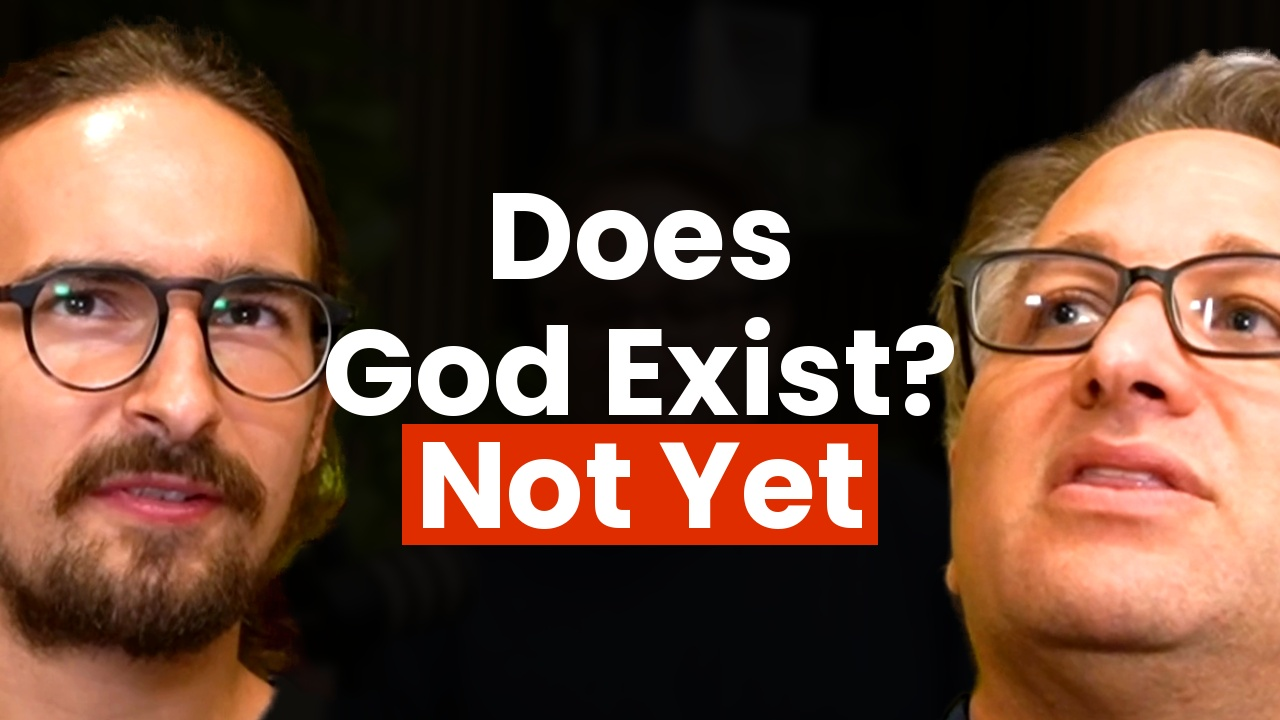
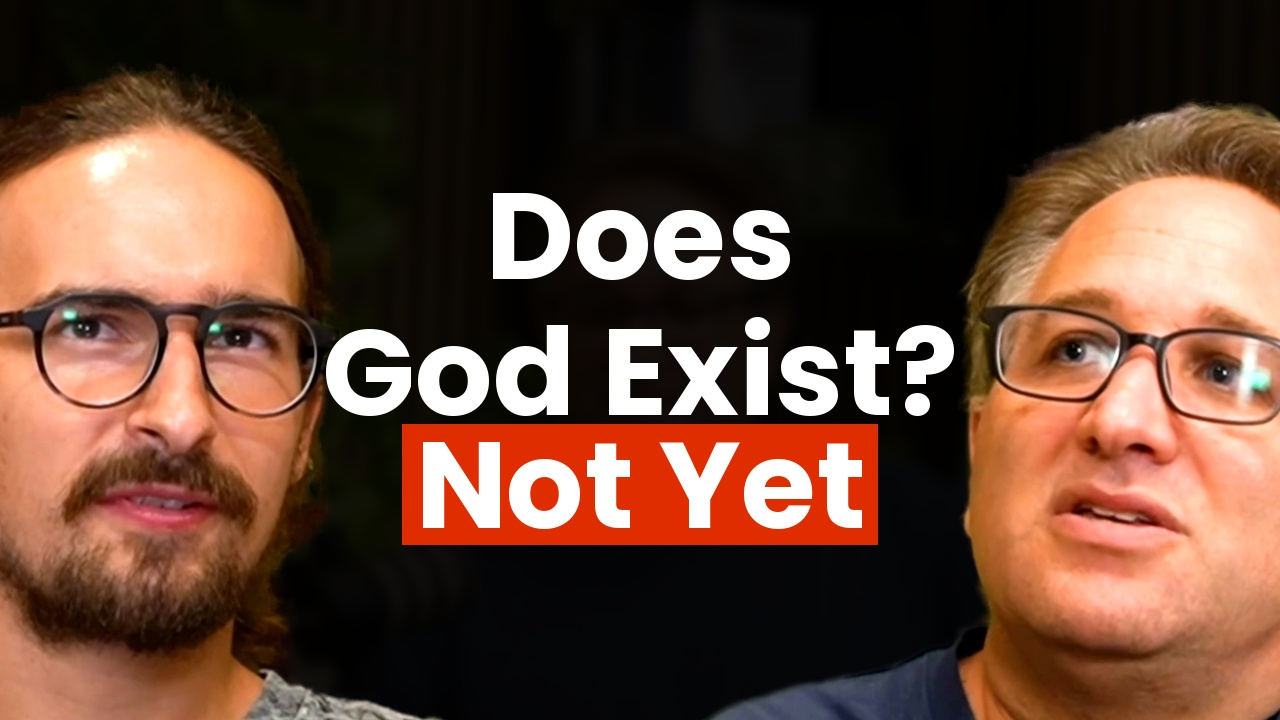
AI God: seine Vorlage gebaut, Koepfe auf DOAC-Mass, Blicke zueinander
Sein Handmotiv aus der Vorlage erzeugt und als Mittelmotiv gesetzt
(aigod-haende). Dazu die DOAC-Form, die er als einzige brauchbare
Inspiration benannt hat: Gesicht links, Roboter im Ornat rechts statt des
zweiten Gesichts, Copy tief und breit darueber (aigod-doac).

Kopfgroesse nach seinem Vorbild statt nach meiner letzten Freigabe:
xtR2sTjysPc liegt bei 61 % / 54 % der Bildhoehe und pd 140 / 131, meine
beanstandete Fassung bei 70 % / 69 % und pd 155 / 171. Jetzt 62 % / 65 %,
pd 146 / 150.

Scott neu gewaehlt (135,33 s statt 107,33 s): Blick nach Bild-links, zu
Yannick hin. Das vorige Bild hatte die Augen nach oben gerollt.

Neu im Setzer: `mitte_weich_hoch` federt das Mittelmotiv auch oben und
unten aus — ohne das stand die Kante des Handbildes sichtbar im Bild;
`mitte_x` setzt es ausserhalb der Mitte, fuer die DOAC-Form.

Claude-Session: https://claude.ai/code/session_01Qng36it9JR8kntKEjVEjXS

Changed region(s): [[0.5312, 0.0611, 1.0, 1.0], [0.0, 0.0306, 0.3438, 1.0], [0.9688, 0.9778, 1.0, 1.0]]

diff --git a/video/thumbnail_bau.py b/video/thumbnail_bau.py
@@ -450,7 +450,7 @@ def bauen(hg, links, rechts, zeilen, kasten, ziel, text_mitte=640,
           hg_dunkel=0.08, hg_weich=6.0, ziel_links=None, ziel_rechts=None,
           mitte=None, mitte_kippung=4.0, mitte_rand=14, mitte_breite=None,
           mitte_unten=700, mitte_dunkel=0.82, mitte_karte=True,
-          mitte_weich_rand=70, logo=None, logo_xy=(528, 370), logo_groesse=128,
+          mitte_weich_rand=70, mitte_weich_hoch=0, mitte_x=640, logo=None, logo_xy=(528, 370), logo_groesse=128,
           logo_farbe=(0xF0, 0x48, 0x60), logo_oben=True, pfeil_von=None,
           pfeil_nach=None, pfeil_bogen=0.28, pfeil_dicke=18,
           pfeil_farbe=(0xDF, 0x2D, 0x00), pfeil_gezeichnet=True,
@@ -490,15 +490,20 @@ def bauen(hg, links, rechts, zeilen, kasten, ziel, text_mitte=640,
             im = im.resize((br, int(im.height * kk)), Image.LANCZOS)
             if mitte_dunkel != 1.0:
                 im = Image.eval(im, lambda v: int(min(255, v * mitte_dunkel)))
+            # Seitlich immer weich, oben und unten nur auf Wunsch: die
+            # Robotergrafik laeuft unten bis zur Bildkante, ein freigestelltes
+            # Motiv wie die beiden Haende braucht dort auch eine weiche Kante.
             maske = Image.new('L', im.size, 0)
             ImageDraw.Draw(maske).rectangle(
-                [mitte_weich_rand, 0,
-                 im.width - mitte_weich_rand, im.height], fill=255)
-            maske = maske.filter(ImageFilter.GaussianBlur(mitte_weich_rand / 2))
+                [mitte_weich_rand, mitte_weich_hoch,
+                 im.width - mitte_weich_rand,
+                 im.height - mitte_weich_hoch], fill=255)
+            maske = maske.filter(ImageFilter.GaussianBlur(
+                max(mitte_weich_rand, mitte_weich_hoch) / 2))
             im = im.convert('RGBA')
             im.putalpha(maske)
             y = mitte_unten - im.height
-            bild.alpha_composite(im, dest=(max(0, 640 - im.width // 2),
+            bild.alpha_composite(im, dest=(max(0, mitte_x - im.width // 2),
                                            max(0, y)))
 
     if halo_xy:

diff --git a/lernen/thumbnails.md b/lernen/thumbnails.md
@@ -46,6 +46,34 @@ oben. Nur nachgemessene Befunde mit Zahl oder wörtlichem Zitat.
   Regel 5 aus `plan/ABLAUF.md` gilt auch für Pfade, nicht nur für Dateien.
   → betrifft: alle
 
+## 21.10.2026 — Kopfgröße: sein Maßstab ist DOAC, nicht mein letzter Stand
+
+*„Scotts Gesicht ist halt viel zu nah rangezoomt."* · *„Das einzige
+brauchbare Thumbnail als Inspiration ist das von Diary of a CEO."*
+
+- **Gemessen an dem DOAC-Thumbnail, das er benannt hat** (`xtR2sTjysPc`):
+  Gesichtsrahmen **61 %** der Bildhöhe links, 54 % rechts, Pupillenabstand
+  140 und 131.
+- **Meine beanstandete Fassung lag bei 70 % / 69 % und pd 155 / 171** — und
+  damit fast genau auf dem von ihm abgenommenen `aaronson-openai-insider`
+  (72 % / 69 %, pd 157 / 166). **Dieselbe Zahl war einmal richtig und einmal
+  falsch.** Sein Maßstab hat sich mit dem Vorbild verschoben; die Messung an
+  alten Freigaben trägt das nicht von selbst mit.
+- **Korrigiert auf 62 % / 65 %, pd 146 / 150.** Wenn er ein Vorbild benennt,
+  wird daran gemessen — nicht an der letzten Freigabe.
+  → betrifft: thumbnails, alle, die an früheren Freigaben messen
+
+### Blickrichtung wird am Fertigbild geprüft, nicht am Ausschnitt
+
+- **Zum dritten Mal dieselbe Beanstandung** (*„dass unsere Gesichter sich
+  gegenseitig angucken müssen"*). Das Bild, das ich genommen hatte, zeigte
+  Scott mit nach oben gerollten Augen — im quadratischen Ausschnitt wirkte
+  das nachdenklich, im fertigen Thumbnail neben einem Gesicht, das ihn
+  ansieht, wirkt es daneben.
+- **Also: nach dem Setzen hinsehen, nicht nur vor dem Freistellen.** Der
+  Ausschnitt zeigt ein Gesicht, das Thumbnail zeigt zwei zueinander.
+  → betrifft: thumbnails, cinematic
+
 ## 21.10.2026 — seine Korrektur: verschwendeter Rand und schwache Mimik
 
 *„Guck mal, wie viel Platz mein Hals einnimmt und auch Kens Oberkörper. Das
